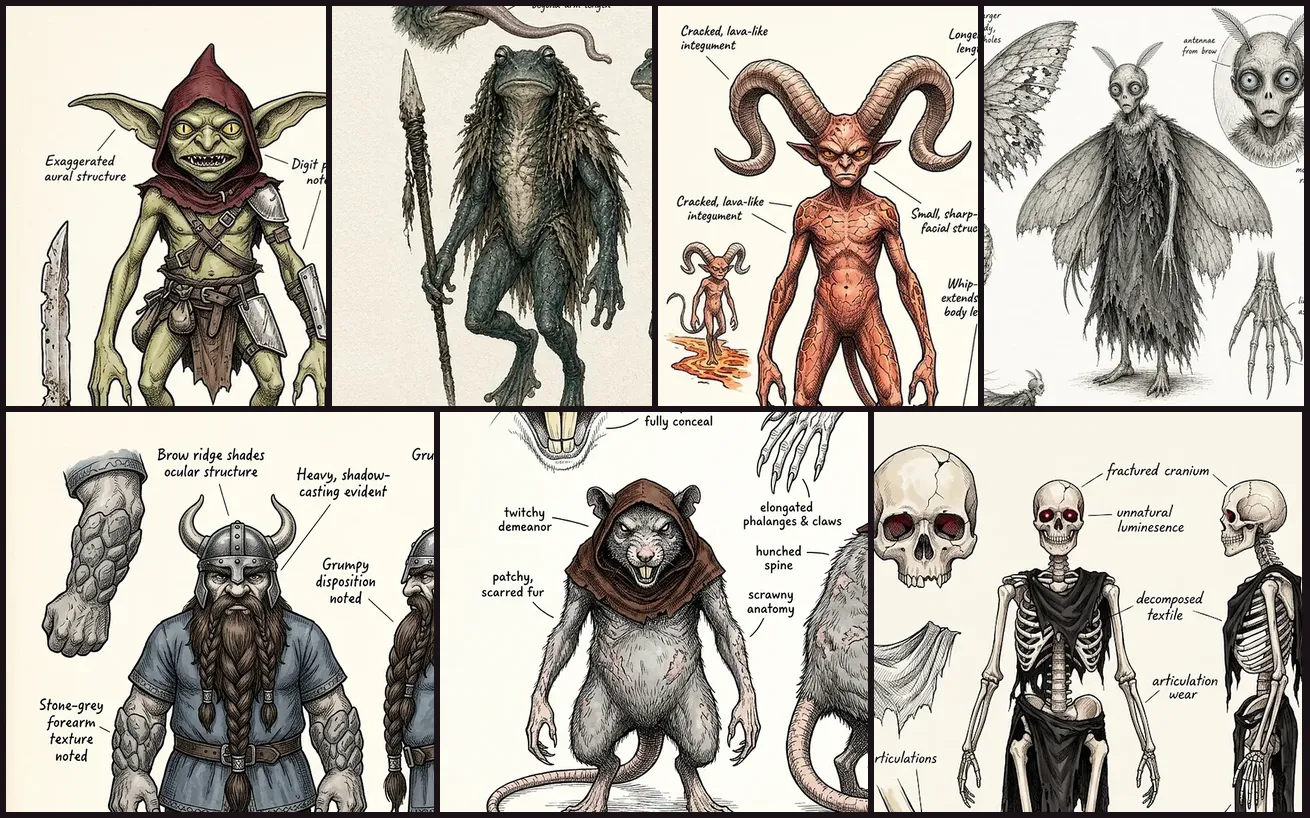
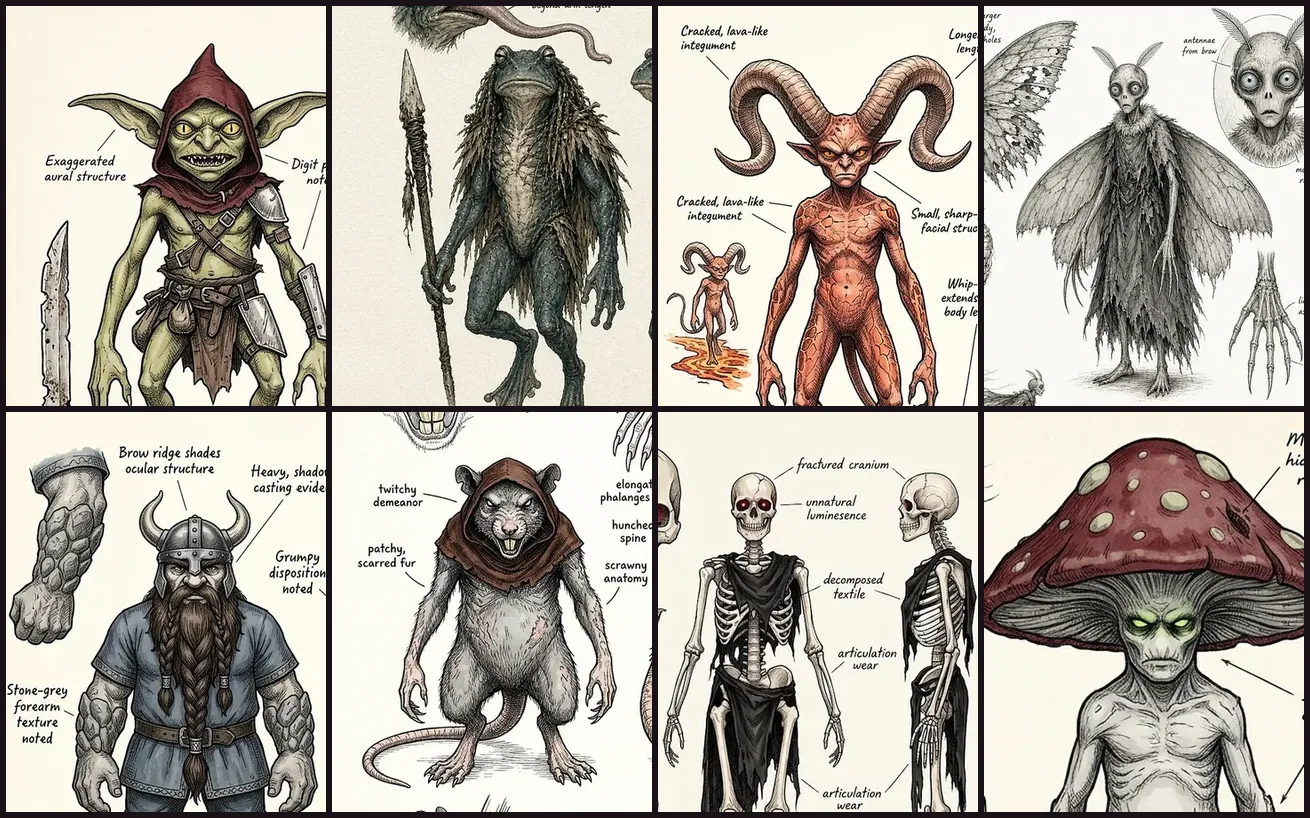
Website: Mushroom Folk field study on its page, race tiles, hero and globe; smooth scaling for ink art
Claude-Session: https://claude.ai/code/session_013W9Sf7G62Sgc1j3f7UWC29

diff --git a/docs/lore.html b/docs/lore.html
@@ -109,7 +109,7 @@
 </div></section>
 <section class="band" id="peoples"><div class="wrap">
  <div class="sec-head"><p class="kicker">Eight of many</p><h2>The eight peoples</h2><p>These are the main races of Marching Orders, not the only ones. Their origins are unknown; the scholar has his doubts about everyone’s version.</p></div>
- <div class="races-grid"><a class="race-tile leaf" href="journal/goblin.html"><span class="leaf-in study"><img src="img/journal/race-goblin-thumb.webp" width="360" height="450" alt="" loading="lazy"></span><b>Goblins</b><span>A Goblin retreat is either a retreat or an invitation.</span></a><a class="race-tile leaf" href="journal/swamp.html"><span class="leaf-in study"><img src="img/journal/race-swamp-thumb.webp" width="360" height="450" alt="" loading="lazy"></span><b>Swampfolk</b><span>In the marsh the water watches you first.</span></a><a class="race-tile leaf" href="journal/imp.html"><span class="leaf-in study"><img src="img/journal/race-imp-thumb.webp" width="360" height="450" alt="" loading="lazy"></span><b>Imps</b><span>Imps are friendly enough.</span></a><a class="race-tile leaf" href="journal/fairy.html"><span class="leaf-in study"><img src="img/journal/race-fairy-thumb.webp" width="360" height="450" alt="" loading="lazy"></span><b>Fairies</b><span>A Fairy will gladly show you the way out of the garden.</span></a><a class="race-tile leaf" href="journal/dwarf.html"><span class="leaf-in study"><img src="img/journal/race-dwarf-thumb.webp" width="360" height="450" alt="" loading="lazy"></span><b>Dwarves</b><span>A Dwarven promise is worth more than most coin, and costs the Dwarf more than most coin to keep.</span></a><a class="race-tile leaf" href="journal/rat.html"><span class="leaf-in study"><img src="img/journal/race-rat-thumb.webp" width="360" height="450" alt="" loading="lazy"></span><b>Ratfolk</b><span>The Ratfolk build fast, breed faster, and forgive nothing at all.</span></a><a class="race-tile leaf" href="journal/bone.html"><span class="leaf-in study"><img src="img/journal/race-bone-thumb.webp" width="360" height="450" alt="" loading="lazy"></span><b>Skeletons</b><span>A Skeleton gets one second chance.</span></a><a class="race-tile leaf" href="journal/shroom.html"><span class="leaf-in todo">Field study still to be drawn</span><b>Mushroom Folk</b><span>The Mushroom Folk will consider your request.</span></a></div>
+ <div class="races-grid"><a class="race-tile leaf" href="journal/goblin.html"><span class="leaf-in study"><img src="img/journal/race-goblin-thumb.webp" width="360" height="450" alt="" loading="lazy"></span><b>Goblins</b><span>A Goblin retreat is either a retreat or an invitation.</span></a><a class="race-tile leaf" href="journal/swamp.html"><span class="leaf-in study"><img src="img/journal/race-swamp-thumb.webp" width="360" height="450" alt="" loading="lazy"></span><b>Swampfolk</b><span>In the marsh the water watches you first.</span></a><a class="race-tile leaf" href="journal/imp.html"><span class="leaf-in study"><img src="img/journal/race-imp-thumb.webp" width="360" height="450" alt="" loading="lazy"></span><b>Imps</b><span>Imps are friendly enough.</span></a><a class="race-tile leaf" href="journal/fairy.html"><span class="leaf-in study"><img src="img/journal/race-fairy-thumb.webp" width="360" height="450" alt="" loading="lazy"></span><b>Fairies</b><span>A Fairy will gladly show you the way out of the garden.</span></a><a class="race-tile leaf" href="journal/dwarf.html"><span class="leaf-in study"><img src="img/journal/race-dwarf-thumb.webp" width="360" height="450" alt="" loading="lazy"></span><b>Dwarves</b><span>A Dwarven promise is worth more than most coin, and costs the Dwarf more than most coin to keep.</span></a><a class="race-tile leaf" href="journal/rat.html"><span class="leaf-in study"><img src="img/journal/race-rat-thumb.webp" width="360" height="450" alt="" loading="lazy"></span><b>Ratfolk</b><span>The Ratfolk build fast, breed faster, and forgive nothing at all.</span></a><a class="race-tile leaf" href="journal/bone.html"><span class="leaf-in study"><img src="img/journal/race-bone-thumb.webp" width="360" height="450" alt="" loading="lazy"></span><b>Skeletons</b><span>A Skeleton gets one second chance.</span></a><a class="race-tile leaf" href="journal/shroom.html"><span class="leaf-in study"><img src="img/journal/race-shroom-thumb.webp" width="360" height="450" alt="" loading="lazy"></span><b>Mushroom Folk</b><span>The Mushroom Folk will consider your request.</span></a></div>
  <div class="leaf" style="margin-top:26px"><div class="scroll-x"><table class="field-data" style="min-width:640px"><caption class="sr">The eight peoples at a glance</caption>
   <thead><tr><th scope="col">People</th><th scope="col">Home</th><th scope="col">Nature</th><th scope="col">Led by</th><th scope="col">Substance</th><th scope="col">Clans</th></tr></thead><tbody><tr><th scope="row"><a href="journal/goblin.html">Goblins</a></th><td>Bog and mines</td><td>Cheap, sneaky swarm</td><td>The Warlord</td><td>Grog</td><td>Mudfoot and Ashgut</td></tr><tr><th scope="row"><a href="journal/swamp.html">Swampfolk</a></th><td>Drowned marsh</td><td>Leaping frog people</td><td>The Elders</td><td>Murk</td><td>Reedback and Mudgill</td></tr><tr><th scope="row"><a href="journal/imp.html">Imps</a></th><td>Cinder forge</td><td>Fire-loving pranksters</td><td>The Forgemaster</td><td>Cinders</td><td>Cinderhorn and Sootwing</td></tr><tr><th scope="row"><a href="journal/fairy.html">Fairies</a></th><td>Giant garden</td><td>Winged, flighty tricksters</td><td>The Queen (one per coven)</td><td>Glimmer</td><td>Thistlewing and Moonmoth</td></tr><tr><th scope="row"><a href="journal/dwarf.html">Dwarves</a></th><td>Deep halls</td><td>Grumpy, honour-bound tunnellers</td><td>The Thane</td><td>Ale</td><td>Ironbrow and Deepdelver</td></tr><tr><th scope="row"><a href="journal/rat.html">Ratfolk</a></th><td>Clockwork sewers</td><td>Scurrying inventors</td><td>The Chief Engineer</td><td>Scrap</td><td>Gearnose and Sewerclaw</td></tr><tr><th scope="row"><a href="journal/bone.html">Skeletons</a></th><td>The crypts</td><td>Will not stay dead</td><td>The Bonelord (of one horde)</td><td>Bone Dust</td><td>Greybone and Hollowrib</td></tr><tr><th scope="row"><a href="journal/shroom.html">Mushroom Folk</a></th><td>Glowing caves</td><td>Strange fungus people</td><td>The Mycelium (its Council of Elders)</td><td>Spores</td><td>Redcap and Blackspore</td></tr></tbody></table></div></div>
 </div></section>

diff --git a/site/lore.html b/site/lore.html
@@ -109,7 +109,7 @@
 </div></section>
 <section class="band" id="peoples"><div class="wrap">
  <div class="sec-head"><p class="kicker">Eight of many</p><h2>The eight peoples</h2><p>These are the main races of Marching Orders, not the only ones. Their origins are unknown; the scholar has his doubts about everyone’s version.</p></div>
- <div class="races-grid"><a class="race-tile leaf" href="journal/goblin.html"><span class="leaf-in study"><img src="img/journal/race-goblin-thumb.webp" width="360" height="450" alt="" loading="lazy"></span><b>Goblins</b><span>A Goblin retreat is either a retreat or an invitation.</span></a><a class="race-tile leaf" href="journal/swamp.html"><span class="leaf-in study"><img src="img/journal/race-swamp-thumb.webp" width="360" height="450" alt="" loading="lazy"></span><b>Swampfolk</b><span>In the marsh the water watches you first.</span></a><a class="race-tile leaf" href="journal/imp.html"><span class="leaf-in study"><img src="img/journal/race-imp-thumb.webp" width="360" height="450" alt="" loading="lazy"></span><b>Imps</b><span>Imps are friendly enough.</span></a><a class="race-tile leaf" href="journal/fairy.html"><span class="leaf-in study"><img src="img/journal/race-fairy-thumb.webp" width="360" height="450" alt="" loading="lazy"></span><b>Fairies</b><span>A Fairy will gladly show you the way out of the garden.</span></a><a class="race-tile leaf" href="journal/dwarf.html"><span class="leaf-in study"><img src="img/journal/race-dwarf-thumb.webp" width="360" height="450" alt="" loading="lazy"></span><b>Dwarves</b><span>A Dwarven promise is worth more than most coin, and costs the Dwarf more than most coin to keep.</span></a><a class="race-tile leaf" href="journal/rat.html"><span class="leaf-in study"><img src="img/journal/race-rat-thumb.webp" width="360" height="450" alt="" loading="lazy"></span><b>Ratfolk</b><span>The Ratfolk build fast, breed faster, and forgive nothing at all.</span></a><a class="race-tile leaf" href="journal/bone.html"><span class="leaf-in study"><img src="img/journal/race-bone-thumb.webp" width="360" height="450" alt="" loading="lazy"></span><b>Skeletons</b><span>A Skeleton gets one second chance.</span></a><a class="race-tile leaf" href="journal/shroom.html"><span class="leaf-in todo">Field study still to be drawn</span><b>Mushroom Folk</b><span>The Mushroom Folk will consider your request.</span></a></div>
+ <div class="races-grid"><a class="race-tile leaf" href="journal/goblin.html"><span class="leaf-in study"><img src="img/journal/race-goblin-thumb.webp" width="360" height="450" alt="" loading="lazy"></span><b>Goblins</b><span>A Goblin retreat is either a retreat or an invitation.</span></a><a class="race-tile leaf" href="journal/swamp.html"><span class="leaf-in study"><img src="img/journal/race-swamp-thumb.webp" width="360" height="450" alt="" loading="lazy"></span><b>Swampfolk</b><span>In the marsh the water watches you first.</span></a><a class="race-tile leaf" href="journal/imp.html"><span class="leaf-in study"><img src="img/journal/race-imp-thumb.webp" width="360" height="450" alt="" loading="lazy"></span><b>Imps</b><span>Imps are friendly enough.</span></a><a class="race-tile leaf" href="journal/fairy.html"><span class="leaf-in study"><img src="img/journal/race-fairy-thumb.webp" width="360" height="450" alt="" loading="lazy"></span><b>Fairies</b><span>A Fairy will gladly show you the way out of the garden.</span></a><a class="race-tile leaf" href="journal/dwarf.html"><span class="leaf-in study"><img src="img/journal/race-dwarf-thumb.webp" width="360" height="450" alt="" loading="lazy"></span><b>Dwarves</b><span>A Dwarven promise is worth more than most coin, and costs the Dwarf more than most coin to keep.</span></a><a class="race-tile leaf" href="journal/rat.html"><span class="leaf-in study"><img src="img/journal/race-rat-thumb.webp" width="360" height="450" alt="" loading="lazy"></span><b>Ratfolk</b><span>The Ratfolk build fast, breed faster, and forgive nothing at all.</span></a><a class="race-tile leaf" href="journal/bone.html"><span class="leaf-in study"><img src="img/journal/race-bone-thumb.webp" width="360" height="450" alt="" loading="lazy"></span><b>Skeletons</b><span>A Skeleton gets one second chance.</span></a><a class="race-tile leaf" href="journal/shroom.html"><span class="leaf-in study"><img src="img/journal/race-shroom-thumb.webp" width="360" height="450" alt="" loading="lazy"></span><b>Mushroom Folk</b><span>The Mushroom Folk will consider your request.</span></a></div>
  <div class="leaf" style="margin-top:26px"><div class="scroll-x"><table class="field-data" style="min-width:640px"><caption class="sr">The eight peoples at a glance</caption>
   <thead><tr><th scope="col">People</th><th scope="col">Home</th><th scope="col">Nature</th><th scope="col">Led by</th><th scope="col">Substance</th><th scope="col">Clans</th></tr></thead><tbody><tr><th scope="row"><a href="journal/goblin.html">Goblins</a></th><td>Bog and mines</td><td>Cheap, sneaky swarm</td><td>The Warlord</td><td>Grog</td><td>Mudfoot and Ashgut</td></tr><tr><th scope="row"><a href="journal/swamp.html">Swampfolk</a></th><td>Drowned marsh</td><td>Leaping frog people</td><td>The Elders</td><td>Murk</td><td>Reedback and Mudgill</td></tr><tr><th scope="row"><a href="journal/imp.html">Imps</a></th><td>Cinder forge</td><td>Fire-loving pranksters</td><td>The Forgemaster</td><td>Cinders</td><td>Cinderhorn and Sootwing</td></tr><tr><th scope="row"><a href="journal/fairy.html">Fairies</a></th><td>Giant garden</td><td>Winged, flighty tricksters</td><td>The Queen (one per coven)</td><td>Glimmer</td><td>Thistlewing and Moonmoth</td></tr><tr><th scope="row"><a href="journal/dwarf.html">Dwarves</a></th><td>Deep halls</td><td>Grumpy, honour-bound tunnellers</td><td>The Thane</td><td>Ale</td><td>Ironbrow and Deepdelver</td></tr><tr><th scope="row"><a href="journal/rat.html">Ratfolk</a></th><td>Clockwork sewers</td><td>Scurrying inventors</td><td>The Chief Engineer</td><td>Scrap</td><td>Gearnose and Sewerclaw</td></tr><tr><th scope="row"><a href="journal/bone.html">Skeletons</a></th><td>The crypts</td><td>Will not stay dead</td><td>The Bonelord (of one horde)</td><td>Bone Dust</td><td>Greybone and Hollowrib</td></tr><tr><th scope="row"><a href="journal/shroom.html">Mushroom Folk</a></th><td>Glowing caves</td><td>Strange fungus people</td><td>The Mycelium (its Council of Elders)</td><td>Spores</td><td>Redcap and Blackspore</td></tr></tbody></table></div></div>
 </div></section>

diff --git a/docs/sw.js b/docs/sw.js
@@ -1,5 +1,5 @@
 // offline support: try the network first so players get updates, and fall back to the saved copy
-const CACHE='rabblings-4e36e324a1',FILES=["./", "account-page.js", "account.html", "account.js", "builder/", "fonts/pixelify-400.woff2", "fonts/silkscreen-400.woff2", "fonts/silkscreen-700.woff2", "freeplay-maps.json", "globe.html", "globe.js", "img/apple-touch-icon.png", "img/bg-bone.png", "img/bg-dwarf.png", "img/bg-fairy.png", "img/bg-goblin.png", "img/bg-imp.png", "img/bg-rat.png", "img/bg-shroom.png", "img/bg-swamp.png", "img/home-bone-0.png", "img/home-bone-1.png", "img/home-dwarf-0.png", "img/home-dwarf-1.png", "img/home-fairy-0.png", "img/home-fairy-1.png", "img/home-goblin-0.png", "img/home-goblin-1.png", "img/home-imp-0.png", "img/home-imp-1.png", "img/home-rat-0.png", "img/home-rat-1.png", "img/home-shroom-0.png", "img/home-shroom-1.png", "img/home-swamp-0.png", "img/home-swamp-1.png", "img/icon-192.png", "img/icon-512.png", "img/icon-maskable-512.png", "img/journal/hero-peoples.webp", "img/journal/list.json", "img/journal/race-bone-head.webp", "img/journal/race-bone-thumb.webp", "img/journal/race-dwarf-head.webp", "img/journal/race-dwarf-thumb.webp", "img/journal/race-fairy-head.webp", "img/journal/race-fairy-thumb.webp", "img/journal/race-goblin-head.webp", "img/journal/race-goblin-thumb.webp", "img/journal/race-imp-head.webp", "img/journal/race-imp-thumb.webp", "img/journal/race-rat-head.webp", "img/journal/race-rat-thumb.webp", "img/journal/race-swamp-head.webp", "img/journal/race-swamp-thumb.webp", "img/logo.png", "img/mark-180.png", "img/mark-32.png", "img/mark-64.png", "img/walk-bone-0.png", "img/walk-bone-1.png", "img/walk-dwarf-0.png", "img/walk-dwarf-1.png", "img/walk-fairy-0.png", "img/walk-fairy-1.png", "img/walk-goblin-0.png", "img/walk-goblin-1.png", "img/walk-imp-0.png", "img/walk-imp-1.png", "img/walk-rat-0.png", "img/walk-rat-1.png", "img/walk-shroom-0.png", "img/walk-shroom-1.png", "img/walk-swamp-0.png", "img/walk-swamp-1.png", "journal/bone.html", "journal/dwarf.html", "journal/fairy.html", "journal/goblin.html", "journal/imp.html", "journal/rat.html", "journal/shroom.html", "journal/swamp.html", "lore.html", "manifest.webmanifest", "maps.html", "maps.js", "play/", "privacy.html", "races.js", "site.js", "style.css"];
+const CACHE='rabblings-4c5ec15b39',FILES=["./", "account-page.js", "account.html", "account.js", "builder/", "fonts/pixelify-400.woff2", "fonts/silkscreen-400.woff2", "fonts/silkscreen-700.woff2", "freeplay-maps.json", "globe.html", "globe.js", "img/apple-touch-icon.png", "img/bg-bone.png", "img/bg-dwarf.png", "img/bg-fairy.png", "img/bg-goblin.png", "img/bg-imp.png", "img/bg-rat.png", "img/bg-shroom.png", "img/bg-swamp.png", "img/home-bone-0.png", "img/home-bone-1.png", "img/home-dwarf-0.png", "img/home-dwarf-1.png", "img/home-fairy-0.png", "img/home-fairy-1.png", "img/home-goblin-0.png", "img/home-goblin-1.png", "img/home-imp-0.png", "img/home-imp-1.png", "img/home-rat-0.png", "img/home-rat-1.png", "img/home-shroom-0.png", "img/home-shroom-1.png", "img/home-swamp-0.png", "img/home-swamp-1.png", "img/icon-192.png", "img/icon-512.png", "img/icon-maskable-512.png", "img/journal/hero-peoples.webp", "img/journal/list.json", "img/journal/race-bone-head.webp", "img/journal/race-bone-thumb.webp", "img/journal/race-dwarf-head.webp", "img/journal/race-dwarf-thumb.webp", "img/journal/race-fairy-head.webp", "img/journal/race-fairy-thumb.webp", "img/journal/race-goblin-head.webp", "img/journal/race-goblin-thumb.webp", "img/journal/race-imp-head.webp", "img/journal/race-imp-thumb.webp", "img/journal/race-rat-head.webp", "img/journal/race-rat-thumb.webp", "img/journal/race-shroom-head.webp", "img/journal/race-shroom-thumb.webp", "img/journal/race-swamp-head.webp", "img/journal/race-swamp-thumb.webp", "img/logo.png", "img/mark-180.png", "img/mark-32.png", "img/mark-64.png", "img/walk-bone-0.png", "img/walk-bone-1.png", "img/walk-dwarf-0.png", "img/walk-dwarf-1.png", "img/walk-fairy-0.png", "img/walk-fairy-1.png", "img/walk-goblin-0.png", "img/walk-goblin-1.png", "img/walk-imp-0.png", "img/walk-imp-1.png", "img/walk-rat-0.png", "img/walk-rat-1.png", "img/walk-shroom-0.png", "img/walk-shroom-1.png", "img/walk-swamp-0.png", "img/walk-swamp-1.png", "journal/bone.html", "journal/dwarf.html", "journal/fairy.html", "journal/goblin.html", "journal/imp.html", "journal/rat.html", "journal/shroom.html", "journal/swamp.html", "lore.html", "manifest.webmanifest", "maps.html", "maps.js", "play/", "privacy.html", "races.js", "site.js", "style.css"];
 self.addEventListener('install',e=>{self.skipWaiting();e.waitUntil(caches.open(CACHE).then(async c=>{await Promise.all(FILES.map(f=>c.add(f).catch(()=>{})));}));});
 self.addEventListener('activate',e=>{e.waitUntil(caches.keys().then(L=>Promise.all(L.filter(k=>k.startsWith('rabblings-')&&k!==CACHE).map(k=>caches.delete(k)))).then(()=>self.clients.claim()));});
 // pages give the network 4 seconds, then use the saved copy, so a weak signal never leaves a blank screen

diff --git a/docs/index.html b/docs/index.html
@@ -36,8 +36,8 @@
    <p class="fine">Free in your browser on phone, tablet or computer. Touch, mouse or keyboard.</p>
   </div>
   <figure class="plate dark hero-plate">
-   <div class="art"><img src="img/journal/hero-peoples.webp" width="1310" height="818" alt="Ink field studies of seven peoples of the Rabblings world: goblin, swampfolk, imp, fairy, dwarf, ratfolk and skeleton"><span class="banner" data-art="hero-banner.webp" data-alt=""></span></div>
-   <figcaption>Seven of the peoples, from the scholar’s field studies. <b>PL. I</b></figcaption>
+   <div class="art"><img src="img/journal/hero-peoples.webp" width="1310" height="818" alt="Ink field studies of the eight peoples of the Rabblings world: goblin, swampfolk, imp, fairy, dwarf, ratfolk, skeleton and mushroom folk"><span class="banner" data-art="hero-banner.webp" data-alt=""></span></div>
+   <figcaption>The eight peoples, from the scholar’s field studies. <b>PL. I</b></figcaption>
   </figure>
  </div>
 </div></section>
@@ -64,7 +64,7 @@
   <a class="race-tile leaf" href="journal/dwarf.html"><span class="leaf-in study"><img src="img/journal/race-dwarf-thumb.webp" width="360" height="450" alt="" loading="lazy"></span><b>Dwarves</b><span>Grumpy, honour-bound tunnellers</span></a>
   <a class="race-tile leaf" href="journal/rat.html"><span class="leaf-in study"><img src="img/journal/race-rat-thumb.webp" width="360" height="450" alt="" loading="lazy"></span><b>Ratfolk</b><span>Scurrying inventors</span></a>
   <a class="race-tile leaf" href="journal/bone.html"><span class="leaf-in study"><img src="img/journal/race-bone-thumb.webp" width="360" height="450" alt="" loading="lazy"></span><b>Skeletons</b><span>Will not stay dead</span></a>
-  <a class="race-tile leaf" href="journal/shroom.html"><span class="leaf-in todo">Field study still to be drawn</span><b>Mushroom Folk</b><span>Strange fungus people</span></a>
+  <a class="race-tile leaf" href="journal/shroom.html"><span class="leaf-in study"><img src="img/journal/race-shroom-thumb.webp" width="360" height="450" alt="" loading="lazy"></span><b>Mushroom Folk</b><span>Strange fungus people</span></a>
  </div>
  <div class="row" style="margin-top:24px"><a class="btn" href="lore.html">Read the lore</a><a class="btn" href="globe.html">Turn the globe</a></div>
 </div></section>

diff --git a/site/index.html b/site/index.html
@@ -36,8 +36,8 @@
    <p class="fine">Free in your browser on phone, tablet or computer. Touch, mouse or keyboard.</p>
   </div>
   <figure class="plate dark hero-plate">
-   <div class="art"><img src="img/journal/hero-peoples.webp" width="1310" height="818" alt="Ink field studies of seven peoples of the Rabblings world: goblin, swampfolk, imp, fairy, dwarf, ratfolk and skeleton"><span class="banner" data-art="hero-banner.webp" data-alt=""></span></div>
-   <figcaption>Seven of the peoples, from the scholar’s field studies. <b>PL. I</b></figcaption>
+   <div class="art"><img src="img/journal/hero-peoples.webp" width="1310" height="818" alt="Ink field studies of the eight peoples of the Rabblings world: goblin, swampfolk, imp, fairy, dwarf, ratfolk, skeleton and mushroom folk"><span class="banner" data-art="hero-banner.webp" data-alt=""></span></div>
+   <figcaption>The eight peoples, from the scholar’s field studies. <b>PL. I</b></figcaption>
   </figure>
  </div>
 </div></section>
@@ -64,7 +64,7 @@
   <a class="race-tile leaf" href="journal/dwarf.html"><span class="leaf-in study"><img src="img/journal/race-dwarf-thumb.webp" width="360" height="450" alt="" loading="lazy"></span><b>Dwarves</b><span>Grumpy, honour-bound tunnellers</span></a>
   <a class="race-tile leaf" href="journal/rat.html"><span class="leaf-in study"><img src="img/journal/race-rat-thumb.webp" width="360" height="450" alt="" loading="lazy"></span><b>Ratfolk</b><span>Scurrying inventors</span></a>
   <a class="race-tile leaf" href="journal/bone.html"><span class="leaf-in study"><img src="img/journal/race-bone-thumb.webp" width="360" height="450" alt="" loading="lazy"></span><b>Skeletons</b><span>Will not stay dead</span></a>
-  <a class="race-tile leaf" href="journal/shroom.html"><span class="leaf-in todo">Field study still to be drawn</span><b>Mushroom Folk</b><span>Strange fungus people</span></a>
+  <a class="race-tile leaf" href="journal/shroom.html"><span class="leaf-in study"><img src="img/journal/race-shroom-thumb.webp" width="360" height="450" alt="" loading="lazy"></span><b>Mushroom Folk</b><span>Strange fungus people</span></a>
  </div>
  <div class="row" style="margin-top:24px"><a class="btn" href="lore.html">Read the lore</a><a class="btn" href="globe.html">Turn the globe</a></div>
 </div></section>

diff --git a/docs/journal/shroom.html b/docs/journal/shroom.html
@@ -33,7 +33,7 @@
  </div>
  <hr class="rule">
  <p class="oneliner">The Mushroom Folk will consider your request. All of them. It may take some time.</p>
- <div class="race-study"><figure class="plate pending" data-art="race-shroom-study.webp" data-alt="Ink field study of the Mushroom Folk">
+ <div class="race-study wide"><figure class="plate pending" data-art="race-shroom-study.webp" data-alt="Ink field study of the Mushroom Folk">
  <div class="art"><span class="await"><b>Study of the Mushroom Folk</b>Plate awaiting its drawing<code>site/img/journal/race-shroom-study.webp</code></span></div>
  <figcaption>Field study, front and side, with details. <b>PL. II</b></figcaption>
 </figure></div>

diff --git a/site/journal/shroom.html b/site/journal/shroom.html
@@ -33,7 +33,7 @@
  </div>
  <hr class="rule">
  <p class="oneliner">The Mushroom Folk will consider your request. All of them. It may take some time.</p>
- <div class="race-study"><figure class="plate pending" data-art="race-shroom-study.webp" data-alt="Ink field study of the Mushroom Folk">
+ <div class="race-study wide"><figure class="plate pending" data-art="race-shroom-study.webp" data-alt="Ink field study of the Mushroom Folk">
  <div class="art"><span class="await"><b>Study of the Mushroom Folk</b>Plate awaiting its drawing<code>site/img/journal/race-shroom-study.webp</code></span></div>
  <figcaption>Field study, front and side, with details. <b>PL. II</b></figcaption>
 </figure></div>

diff --git a/docs/style.css b/docs/style.css
@@ -347,3 +347,5 @@ footer .colophon{font:italic 400 16px var(--fell);color:var(--ink-faint)}
 .gmark.home .dot{display:block;width:100%;height:100%;background:radial-gradient(circle,#c8b48a 0 30%,#3a2c1c 32%)}
 .gmark.home:hover,.gmark.home[aria-expanded=true]{border-color:var(--sepia,#b08a52)}
 .race-study{max-width:560px;margin:18px auto 26px}
+.race-study.wide{max-width:820px}
+.plate .art img[src*="journal/"],.banner img{image-rendering:auto}

diff --git a/site/style.css b/site/style.css
@@ -347,3 +347,5 @@ footer .colophon{font:italic 400 16px var(--fell);color:var(--ink-faint)}
 .gmark.home .dot{display:block;width:100%;height:100%;background:radial-gradient(circle,#c8b48a 0 30%,#3a2c1c 32%)}
 .gmark.home:hover,.gmark.home[aria-expanded=true]{border-color:var(--sepia,#b08a52)}
 .race-study{max-width:560px;margin:18px auto 26px}
+.race-study.wide{max-width:820px}
+.plate .art img[src*="journal/"],.banner img{image-rendering:auto}

diff --git a/docs/globe.js b/docs/globe.js
@@ -22,7 +22,7 @@
   {k:'dwarf',n:'Dwarves',home:'The Deep Halls',at:[8,70]},
   {k:'rat',n:'Ratfolk',home:'The Clockwork Sewers',at:[-72,-18]},
   {k:'bone',n:'Skeletons',home:'The Crypts',at:[-98,-42]}];
- var STUDIES={goblin:1,swamp:1,imp:1,fairy:1,dwarf:1,rat:1,bone:1};
+ var STUDIES={goblin:1,swamp:1,imp:1,fairy:1,dwarf:1,rat:1,bone:1,shroom:1};
 
  function build(){
  var THREE=window.THREE;

diff --git a/site/globe.js b/site/globe.js
@@ -22,7 +22,7 @@
   {k:'dwarf',n:'Dwarves',home:'The Deep Halls',at:[8,70]},
   {k:'rat',n:'Ratfolk',home:'The Clockwork Sewers',at:[-72,-18]},
   {k:'bone',n:'Skeletons',home:'The Crypts',at:[-98,-42]}];
- var STUDIES={goblin:1,swamp:1,imp:1,fairy:1,dwarf:1,rat:1,bone:1};
+ var STUDIES={goblin:1,swamp:1,imp:1,fairy:1,dwarf:1,rat:1,bone:1,shroom:1};
 
  function build(){
  var THREE=window.THREE;

diff --git a/tools/site_journal.py b/tools/site_journal.py
@@ -218,7 +218,7 @@ def race_page(k, r, prev, nxt):
  </div>
  <hr class="rule">
  <p class="oneliner">{E(L['oneliner'])}</p>
- <div class="race-study">{pending('race-' + k + '-study.webp', 'Study of the ' + name, 'Field study, front and side, with details.', 'II', up, 'Ink field study of the ' + name)}</div>
+ <div class="race-study{' wide' if k == 'shroom' else ''}">{pending('race-' + k + '-study.webp', 'Study of the ' + name, 'Field study, front and side, with details.', 'II', up, 'Ink field study of the ' + name)}</div>
  <div class="spread">
   <div>
    <div class="hand">{entry}</div>
